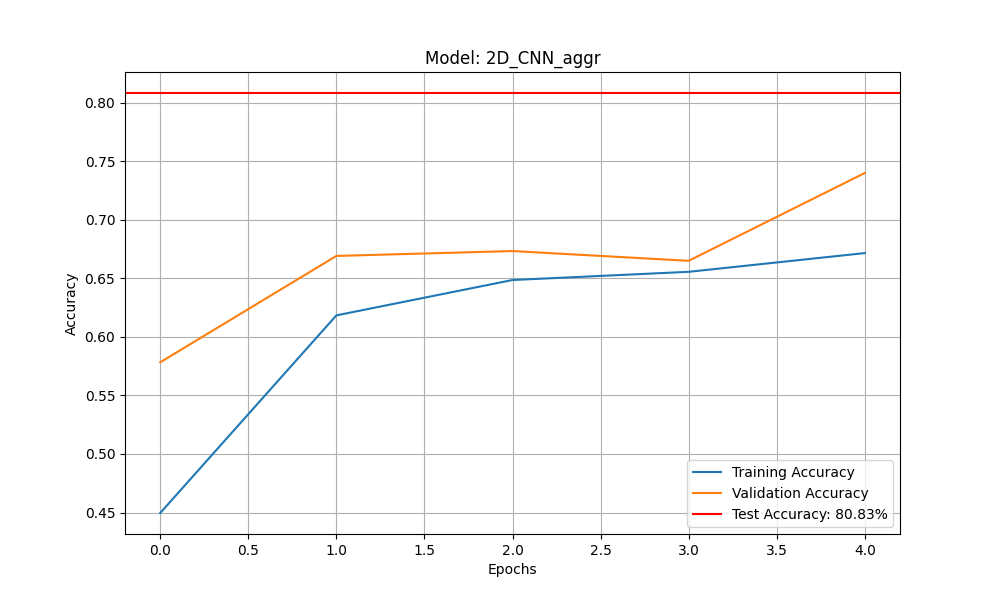
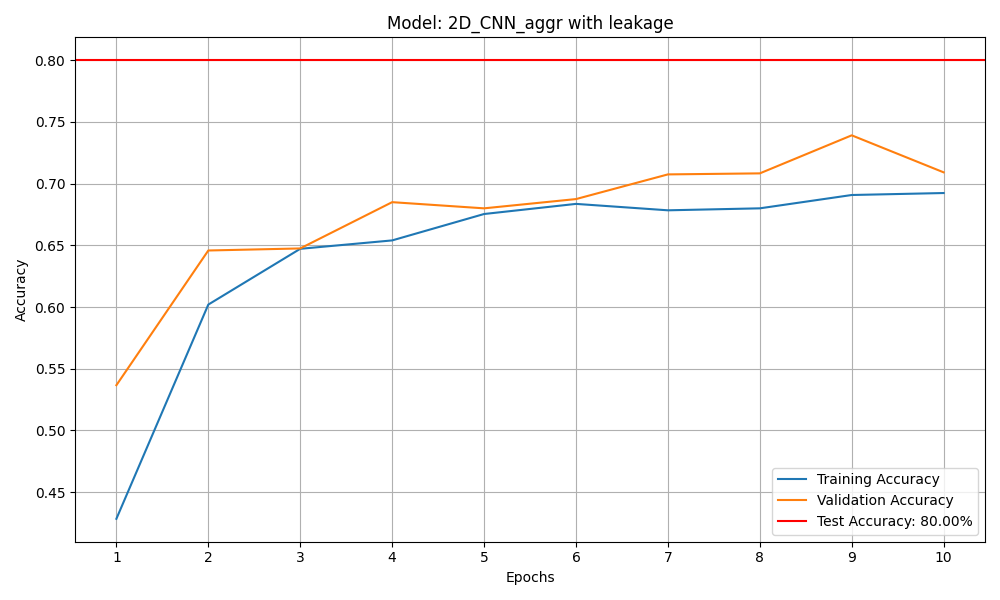
New results for leak and no leak

diff --git a/Project_2/main.py b/Project_2/main.py
@@ -64,13 +64,13 @@ def create_dataloaders(args: argparse.Namespace) -> tuple[DataLoader, DataLoader
 
     root_path = Path(args.root_dir)
     root_path = root_path / "ucf101_noleakage" if args.no_leakage else root_path / "ufc10"
-    args.root_dir = str(root_path)
+    root_dir = str(root_path)
 
     if args.model == "3D_CNN":
         # Use video-level samples with frames stacked: [C, T, H, W]
-        train_ds = FrameVideoDataset(root_dir=args.root_dir, split="train", transform=transform, stack_frames=True)
-        val_ds = FrameVideoDataset(root_dir=args.root_dir, split="val", transform=transform, stack_frames=True)
-        test_ds = FrameVideoDataset(root_dir=args.root_dir, split="test", transform=transform, stack_frames=True)
+        train_ds = FrameVideoDataset(root_dir=root_dir, split="train", transform=transform, stack_frames=True)
+        val_ds = FrameVideoDataset(root_dir=root_dir, split="val", transform=transform, stack_frames=True)
+        test_ds = FrameVideoDataset(root_dir=root_dir, split="test", transform=transform, stack_frames=True)
 
         train_loader = DataLoader(train_ds, batch_size=args.batch_size, shuffle=True)
         val_loader = DataLoader(val_ds, batch_size=args.batch_size, shuffle=True)
@@ -78,11 +78,10 @@ def create_dataloaders(args: argparse.Namespace) -> tuple[DataLoader, DataLoader
 
     else:
         # 2D models: frame-level training/val, video-level testing as list of frames
-        frameimagetrain_dataset = FrameImageDataset(root_dir=args.root_dir, split="train", transform=transform)
-        frameimageval_dataset = FrameImageDataset(root_dir=args.root_dir, split="val", transform=transform)
-
+        frameimagetrain_dataset = FrameImageDataset(root_dir=root_dir, split="train", transform=transform)
+        frameimageval_dataset = FrameImageDataset(root_dir=root_dir, split="val", transform=transform)
         framevideotest_dataset = FrameVideoDataset(
-            root_dir=args.root_dir, split="test", transform=transform, stack_frames=False
+            root_dir=root_dir, split="test", transform=transform, stack_frames=False
         )
 
         train_loader = DataLoader(frameimagetrain_dataset, batch_size=args.batch_size, shuffle=True)
@@ -263,22 +262,24 @@ def save_results(
 
     # Plot accuracy curves
     plt.figure(figsize=(10, 6))
-    plt.plot(train_acc, label="Training Accuracy")
-    plt.plot(val_acc, label="Validation Accuracy")
+    epochs = range(1, len(train_acc) + 1)
+    plt.plot(epochs, train_acc, label="Training Accuracy")
+    plt.plot(epochs, val_acc, label="Validation Accuracy")
     plt.axhline(y=test_acc / 100, color="r", linestyle="-", label=f"Test Accuracy: {test_acc:.2f}%")
     plt.xlabel("Epochs")
     plt.ylabel("Accuracy")
     if args.no_leakage:
         plt.title(f"Model: {args.model} with no leakage")
     else:
-        plt.title(f"Model: {args.model}")
+        plt.title(f"Model: {args.model} with leakage")
     plt.legend()
     plt.grid(visible=True)
-
+    plt.xticks(epochs)
     if args.no_leakage:
         plt_path = output_dir / f"{args.model}_accuracy_noleak.png"
     else:
         plt_path = output_dir / f"{args.model}_accuracy.png"
+    plt.tight_layout()
     plt.savefig(plt_path)
     logger.info(f"Accuracy plot saved to {plt_path}")
 
